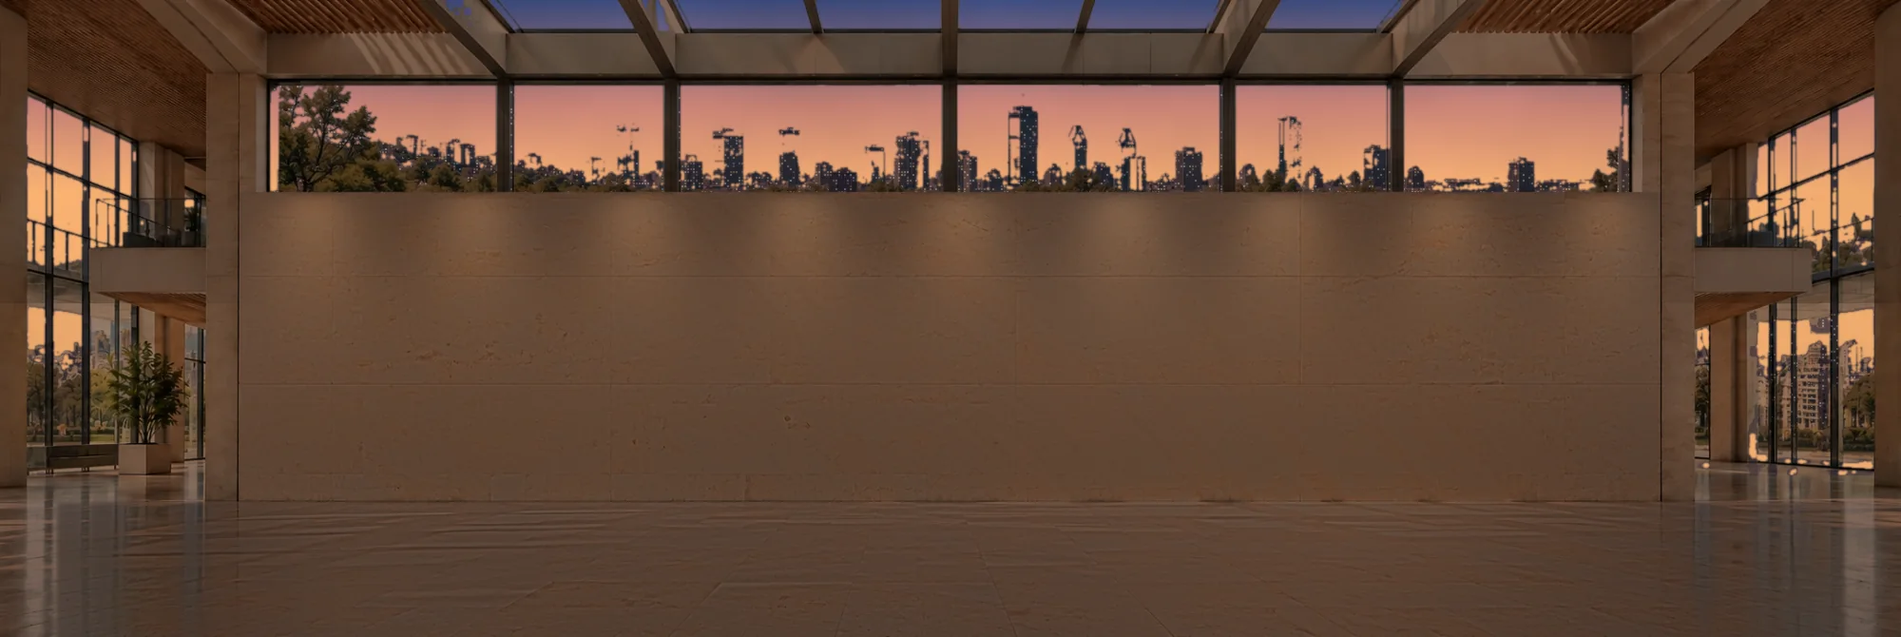
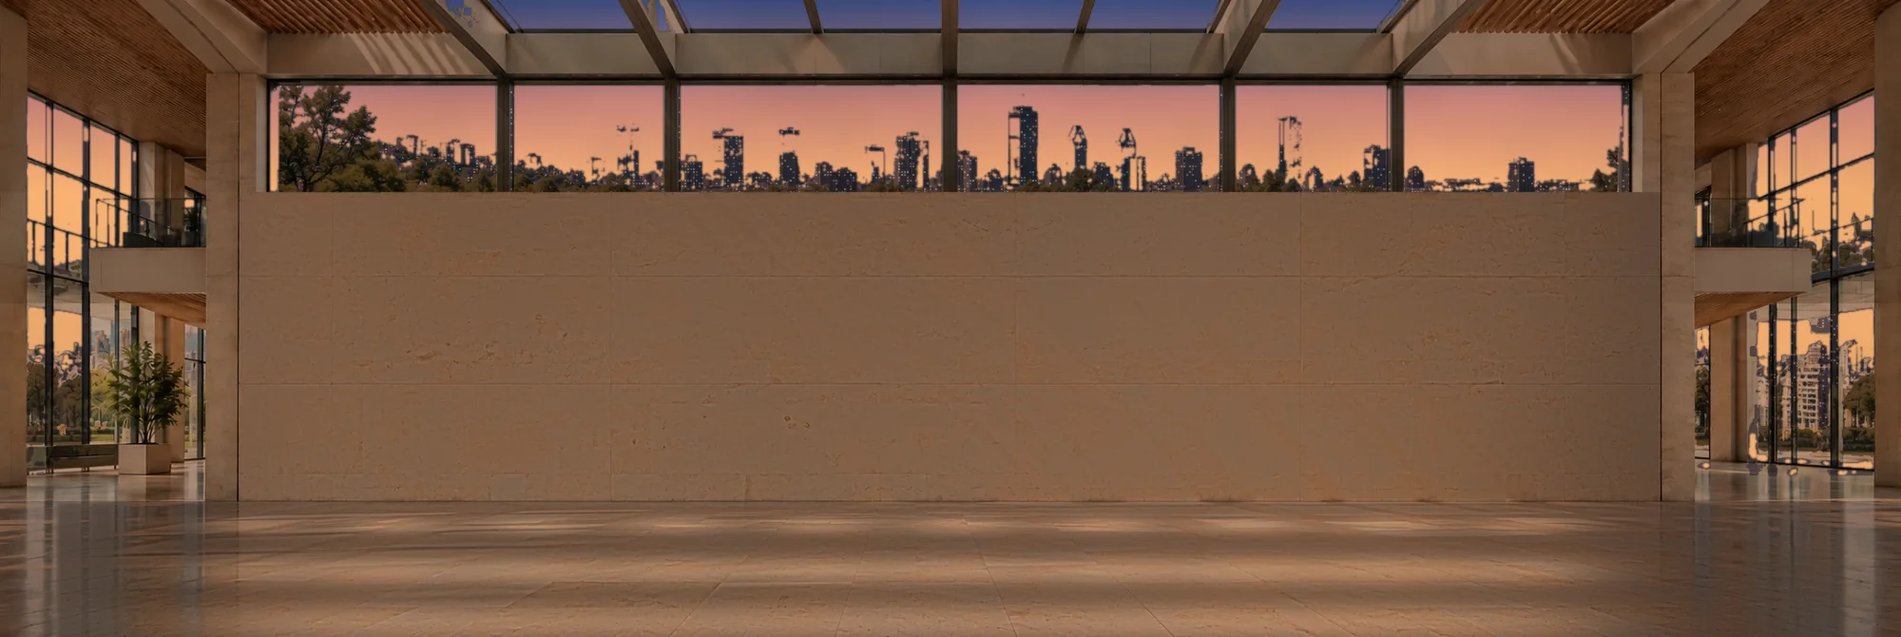
Hall : vue rapprochée, nuit éclairée par le plafond, ouverture des portes d'origine
- Vue rapprochée (×1,24, haut de la verrière recadré) : portes et panneaux plus
  grands ; la largeur des stations suit celle des portes.
- Nuit plus lumineuse : spots du plafond, lumière douce sur le mur, flaques de
  lumière et reflets au sol ; portes et panneaux moins assombris.
- Ouverture des portes rétablie : intérieur sombre avec « Entrer » et transition
  claire et translucide de la couleur de la porte.

diff --git a/assets/hall-realiste.css b/assets/hall-realiste.css
@@ -20,16 +20,10 @@
 }
 .hall[data-hall-volume]:is(.en-volume,.en-mobile) .station-hall .porte .ouverture {
   inset: 1.1% 2.2% 0;
-  background: linear-gradient(105deg,#151b1d,color-mix(in srgb,var(--c1) 17%,#162124),#10191c);
-  box-shadow: inset 3px 2px 5px #000a;
-  perspective: 900px;
-  perspective-origin: 0 50%;
-  transition: background .5s ease, box-shadow .5s ease;
-}
-/* La teinte de la porte apparaît derrière le vantail pendant son ouverture. */
-.hall[data-hall-volume]:is(.en-volume,.en-mobile) .station-hall .porte.ouverte .ouverture {
-  background: radial-gradient(ellipse at 54% 49%,color-mix(in srgb,var(--c1) 68%,#e6f0f2) 0%,color-mix(in srgb,var(--c1) 83%,#26313a) 65%,#182229 100%);
-  box-shadow: inset 0 0 16px color-mix(in srgb,var(--c1) 42%,transparent);
+  background: linear-gradient(90deg,#101511,#3a3d32 15%,#262b25 92%,#101511);
+  box-shadow: inset 2px 1px 3px #0008;
+  perspective: 1700px;
+  perspective-origin: 50% 50%;
 }
 .hall[data-hall-volume]:is(.en-volume,.en-mobile) .station-hall .porte .battant {
   border: 0;
@@ -37,7 +31,7 @@
   background: url("photos/porte-laboratoire-cinema.webp") center / 100% 100% no-repeat;
   box-shadow: inset 1px 0 0 rgba(255,255,255,.55), inset -1px 0 0 rgba(60,54,44,.35);
   transform-origin: 0 50%;
-  transition: transform .6s cubic-bezier(.3,.7,.2,1), filter .6s;
+  transition: transform .55s var(--ease);
 }
 .hall[data-hall-volume]:is(.en-volume,.en-mobile) .station-hall .porte .battant::before,
 .hall[data-hall-volume]:is(.en-volume,.en-mobile) .station-hall .porte .battant::after,
@@ -71,12 +65,6 @@
 .hall[data-hall-volume]:is(.en-volume,.en-mobile) .station-hall .porte .apercu {
   color: #f2eee2;
   text-shadow: 0 1px 2px #000;
-}
-@media(hover:hover) and (pointer:fine) {
-  .hall[data-hall-volume]:is(.en-volume,.en-mobile) .station-hall .porte:not(.ouverte):hover .battant {
-    transform: rotateY(-14deg);
-    box-shadow: inset 1px 0 0 rgba(255,255,255,.55), 6px 0 10px -4px rgba(0,0,0,.45);
-  }
 }
 
 /* Panneaux épinglés au mur : plaque blanche mate sur quatre entretoises inox. */
@@ -211,6 +199,9 @@
 @media(min-width:1000px) {
   .hall.en-volume {
     --eb-hall-hauteur: clamp(460px,58svh,540px);
+    /* Vue rapprochée : la photo est agrandie et le haut de la verrière recadré. */
+    --hall-zoom: 1.24;
+    --hall-recadrage: 48;
   }
   .hall.en-volume .hall-espace {
     height: var(--eb-hall-hauteur);
@@ -220,12 +211,13 @@
   .hall.en-volume .hall-espace::before,
   .hall.en-volume .hall-espace::after { content: none; }
   .hall.en-volume .hall-univers {
-    --px: max(calc(100cqw / 2000), calc(100cqh / 670));
+    --px: calc(max(calc(100cqw / 2000), calc(100cqh / 670)) * var(--hall-zoom));
     --iw: calc(var(--px) * 2000);
     --ih: calc(var(--px) * 670);
     --ix: calc((100cqw - var(--iw)) / 2);
-    --mur-haut: calc(var(--px) * 202);
-    --mur-bas: calc(var(--px) * 526);
+    --iy: calc(var(--px) * var(--hall-recadrage) * -1);
+    --mur-haut: calc(var(--iy) + var(--px) * 202);
+    --mur-bas: calc(var(--iy) + var(--px) * 526);
     --mur-g: calc(var(--ix) + var(--px) * 253);
     --mur-d: calc(var(--ix) + var(--px) * 1746);
     --hauteur-mur: calc(var(--mur-bas) - var(--mur-haut));
@@ -235,7 +227,7 @@
     inset: 0;
     transform: none;
     isolation: isolate;
-    background: var(--hall-jour) var(--ix) 0 / var(--iw) var(--ih) no-repeat;
+    background: var(--hall-jour) var(--ix) var(--iy) / var(--iw) var(--ih) no-repeat;
     background-color: #d6ccbb;
   }
   .hall.en-volume .architecture-hall::before,
@@ -243,12 +235,12 @@
   .hall.en-volume[data-moment] .architecture-hall::before { content: none; display: none; }
   .hall.en-volume :is(.paroi-hall,.plafond-hall,.verriere-hall,.dallage-hall) { display: none; }
   .hall.en-volume .hall-calque {
-    background-position: var(--ix) 0;
+    background-position: var(--ix) var(--iy);
     background-size: var(--iw) var(--ih);
   }
   .hall.en-volume :is(.hall-brume,.hall-precipitation,.hall-eclair) {
-    -webkit-mask-position: var(--ix) 0;
-    mask-position: var(--ix) 0;
+    -webkit-mask-position: var(--ix) var(--iy);
+    mask-position: var(--ix) var(--iy);
     -webkit-mask-size: var(--iw) var(--ih);
     mask-size: var(--iw) var(--ih);
   }
@@ -290,7 +282,7 @@
   .hall.en-volume .station-hall {
     top: var(--mur-haut);
     bottom: auto;
-    width: 446px;
+    width: var(--hall-station-l,446px);
     height: var(--hauteur-mur);
     transform: translateX(var(--panorama-x,40px));
     filter: brightness(var(--hall-eclairage)) sepia(var(--hall-chaleur));
@@ -337,18 +329,22 @@
     opacity: .9;
   }
   .hall.en-volume .station-hall .porte::after { content: none; }
-  .hall.en-volume .station-hall .porte:not(.ouverte):focus-visible .battant { transform: rotateY(-26deg); }
-  .hall.en-volume .station-hall .porte.ouverte .battant { transform: rotateY(-84deg); }
+  .hall.en-volume .station-hall .porte:not(.ouverte):focus-visible .battant { transform: rotateY(-34deg); }
+  .hall.en-volume .station-hall .porte.ouverte .battant { transform: rotateY(-82deg); }
   .hall.en-volume .station-hall .panneau-hall {
     top: 8%;
     bottom: auto;
     left: calc(var(--hall-porte-l) + 34px);
-    width: calc(446px - var(--hall-porte-l) - 44px);
+    width: calc(var(--hall-station-l,446px) - var(--hall-porte-l) - 44px);
     height: auto;
     min-height: 80%;
     max-height: none;
     transform: none;
   }
+  .hall.en-volume .station-hall .panneau-hall { padding: 18px 20px 15px; }
+  .hall.en-volume .station-hall .panneau-hall h3 { font-size: 14.5px; margin-bottom: 10px; padding-bottom: 10px; }
+  .hall.en-volume .station-hall .panneau-hall h3 bdi { width: 34px; height: 34px; font-size: 21px; }
+  .hall.en-volume .station-hall .sous-portes-murales > :is(button,a) { min-height: 36px; font-size: 12px; }
   .hall.en-volume .station-hall .panneau-hall > p {
     margin: 0 0 6px;
     font-size: 10.5px;
@@ -372,11 +368,11 @@
     opacity: var(--hall-lumiere-force,0);
   }
   .hall.en-volume .station-hall .porte .baie::before {
-    background-position: calc(var(--ix) - var(--panorama-x,40px) - 10px) calc(0px - var(--mur-haut));
+    background-position: calc(var(--ix) - var(--panorama-x,40px) - 10px) calc(var(--iy) - var(--mur-haut));
   }
   .hall.en-volume .station-hall .panneau-hall::after {
     border-radius: inherit;
-    background-position: calc(var(--ix) - var(--panorama-x,40px) - var(--hall-porte-l) - 34px) calc(0px - var(--mur-haut) - var(--hauteur-mur) * .08);
+    background-position: calc(var(--ix) - var(--panorama-x,40px) - var(--hall-porte-l) - 34px) calc(var(--iy) - var(--mur-haut) - var(--hauteur-mur) * .08);
   }
 }
 

diff --git a/ru/index.html b/ru/index.html
@@ -17,7 +17,7 @@
 <link rel="alternate" hreflang="x-default" href="https://erjb-web.github.io/">
 <link rel="icon" href="../assets/favicon.svg?v=3fa5b764af" type="image/svg+xml">
 <link rel="stylesheet" href="../assets/site.css?v=menuiserie-realiste-20261016b">
-<link rel="stylesheet" href="../assets/hall-realiste.css?v=cda16e29a1">
+<link rel="stylesheet" href="../assets/hall-realiste.css?v=4fe868f4c7">
 <link rel="stylesheet" href="../assets/vulgarisation-studio.css?v=20261015studio5">
 <link rel="stylesheet" href="../assets/vulgarisation-editorial.css?v=20261015editorial4">
 <meta property="og:type" content="profile">
@@ -28,9 +28,9 @@
 <meta property="og:locale" content="ru_RU">
 <meta name="twitter:card" content="summary_large_image">
 <script type="application/ld+json">{"@context":"https://schema.org","@type":"Person","name":"Éric Bernier","url":"https://erjb-web.github.io/","image":"https://erjb-web.github.io/assets/portrait.jpg","jobTitle":"Аспирант по общественному здравоохранению · ESPUM · CRCHUM","email":"mailto:eric.bernier.1@umontreal.ca","affiliation":[{"@type":"CollegeOrUniversity","name":"École de santé publique de l’Université de Montréal (ESPUM)"},{"@type":"ResearchOrganization","name":"Centre de recherche du CHUM (CRCHUM)"}],"alumniOf":[{"@type":"CollegeOrUniversity","name":"Université Paris Panthéon-Assas"},{"@type":"CollegeOrUniversity","name":"Université de Bretagne Occidentale"}],"knowsAbout":["Управление и оценка политики здравоохранения","Межсекторальный подход в первичной медицинской помощи","Старение, утрата самостоятельности и политика поддержки жизни дома"],"sameAs":["https://orcid.org/0009-0001-4236-4932"]}</script>
-<script src="../assets/hall-marche.js?v=2dfc4f662b" defer></script>
-<script src="../assets/hall-ciel.js?v=988f48a5b2" defer></script>
-<script src="../assets/site.js?v=28f7f45e71" defer></script>
+<script src="../assets/hall-marche.js?v=803fe3059b" defer></script>
+<script src="../assets/hall-ciel.js?v=1c527ebcdc" defer></script>
+<script src="../assets/site.js?v=fbb0a31b2f" defer></script>
 <script src="../assets/vulgarisation-studio.js?v=quizfix20261016" defer></script>
 <script src="../assets/vulgarisation-editorial.js?v=20261015editorial4" defer></script>
 <script src="../assets/audience.js?v=32f18e181a" data-audience-website-id="782c7df7-c2cf-4578-bddc-fa02662324af" data-audience-domaines="erjb-web.github.io" defer></script>

diff --git a/ar/index.html b/ar/index.html
@@ -17,7 +17,7 @@
 <link rel="alternate" hreflang="x-default" href="https://erjb-web.github.io/">
 <link rel="icon" href="../assets/favicon.svg?v=3fa5b764af" type="image/svg+xml">
 <link rel="stylesheet" href="../assets/site.css?v=menuiserie-realiste-20261016b">
-<link rel="stylesheet" href="../assets/hall-realiste.css?v=cda16e29a1">
+<link rel="stylesheet" href="../assets/hall-realiste.css?v=4fe868f4c7">
 <link rel="stylesheet" href="../assets/vulgarisation-studio.css?v=20261015studio5">
 <link rel="stylesheet" href="../assets/vulgarisation-editorial.css?v=20261015editorial4">
 <meta property="og:type" content="profile">
@@ -28,9 +28,9 @@
 <meta property="og:locale" content="ar_AR">
 <meta name="twitter:card" content="summary_large_image">
 <script type="application/ld+json">{"@context":"https://schema.org","@type":"Person","name":"Éric Bernier","url":"https://erjb-web.github.io/","image":"https://erjb-web.github.io/assets/portrait.jpg","jobTitle":"طالب دكتوراه في الصحة العامة · ESPUM · CRCHUM","email":"mailto:eric.bernier.1@umontreal.ca","affiliation":[{"@type":"CollegeOrUniversity","name":"École de santé publique de l’Université de Montréal (ESPUM)"},{"@type":"ResearchOrganization","name":"Centre de recherche du CHUM (CRCHUM)"}],"alumniOf":[{"@type":"CollegeOrUniversity","name":"Université Paris Panthéon-Assas"},{"@type":"CollegeOrUniversity","name":"Université de Bretagne Occidentale"}],"knowsAbout":["حوكمة السياسات الصحية وتقييمها","المقاربة المشتركة بين القطاعات في خط الرعاية الأول","الشيخوخة وفقدان الاستقلالية وسياسات دعم البقاء في المنزل"],"sameAs":["https://orcid.org/0009-0001-4236-4932"]}</script>
-<script src="../assets/hall-marche.js?v=2dfc4f662b" defer></script>
-<script src="../assets/hall-ciel.js?v=988f48a5b2" defer></script>
-<script src="../assets/site.js?v=28f7f45e71" defer></script>
+<script src="../assets/hall-marche.js?v=803fe3059b" defer></script>
+<script src="../assets/hall-ciel.js?v=1c527ebcdc" defer></script>
+<script src="../assets/site.js?v=fbb0a31b2f" defer></script>
 <script src="../assets/vulgarisation-studio.js?v=quizfix20261016" defer></script>
 <script src="../assets/vulgarisation-editorial.js?v=20261015editorial4" defer></script>
 <script src="../assets/audience.js?v=32f18e181a" data-audience-website-id="782c7df7-c2cf-4578-bddc-fa02662324af" data-audience-domaines="erjb-web.github.io" defer></script>

diff --git a/es/index.html b/es/index.html
@@ -17,7 +17,7 @@
 <link rel="alternate" hreflang="x-default" href="https://erjb-web.github.io/">
 <link rel="icon" href="../assets/favicon.svg?v=3fa5b764af" type="image/svg+xml">
 <link rel="stylesheet" href="../assets/site.css?v=menuiserie-realiste-20261016b">
-<link rel="stylesheet" href="../assets/hall-realiste.css?v=cda16e29a1">
+<link rel="stylesheet" href="../assets/hall-realiste.css?v=4fe868f4c7">
 <link rel="stylesheet" href="../assets/vulgarisation-studio.css?v=20261015studio5">
 <link rel="stylesheet" href="../assets/vulgarisation-editorial.css?v=20261015editorial4">
 <meta property="og:type" content="profile">
@@ -28,9 +28,9 @@
 <meta property="og:locale" content="es_ES">
 <meta name="twitter:card" content="summary_large_image">
 <script type="application/ld+json">{"@context":"https://schema.org","@type":"Person","name":"Éric Bernier","url":"https://erjb-web.github.io/","image":"https://erjb-web.github.io/assets/portrait.jpg","jobTitle":"Doctorando en salud pública · ESPUM · CRCHUM","email":"mailto:eric.bernier.1@umontreal.ca","affiliation":[{"@type":"CollegeOrUniversity","name":"École de santé publique de l’Université de Montréal (ESPUM)"},{"@type":"ResearchOrganization","name":"Centre de recherche du CHUM (CRCHUM)"}],"alumniOf":[{"@type":"CollegeOrUniversity","name":"Université Paris Panthéon-Assas"},{"@type":"CollegeOrUniversity","name":"Université de Bretagne Occidentale"}],"knowsAbout":["Gobernanza y evaluación de las políticas de salud","Enfoque intersectorial en atención primaria","Envejecimiento, pérdida de autonomía y políticas de permanencia en el domicilio"],"sameAs":["https://orcid.org/0009-0001-4236-4932"]}</script>
-<script src="../assets/hall-marche.js?v=2dfc4f662b" defer></script>
-<script src="../assets/hall-ciel.js?v=988f48a5b2" defer></script>
-<script src="../assets/site.js?v=28f7f45e71" defer></script>
+<script src="../assets/hall-marche.js?v=803fe3059b" defer></script>
+<script src="../assets/hall-ciel.js?v=1c527ebcdc" defer></script>
+<script src="../assets/site.js?v=fbb0a31b2f" defer></script>
 <script src="../assets/vulgarisation-studio.js?v=quizfix20261016" defer></script>
 <script src="../assets/vulgarisation-editorial.js?v=20261015editorial4" defer></script>
 <script src="../assets/audience.js?v=32f18e181a" data-audience-website-id="782c7df7-c2cf-4578-bddc-fa02662324af" data-audience-domaines="erjb-web.github.io" defer></script>

diff --git a/en/index.html b/en/index.html
@@ -17,7 +17,7 @@
 <link rel="alternate" hreflang="x-default" href="https://erjb-web.github.io/">
 <link rel="icon" href="../assets/favicon.svg?v=3fa5b764af" type="image/svg+xml">
 <link rel="stylesheet" href="../assets/site.css?v=menuiserie-realiste-20261016b">
-<link rel="stylesheet" href="../assets/hall-realiste.css?v=cda16e29a1">
+<link rel="stylesheet" href="../assets/hall-realiste.css?v=4fe868f4c7">
 <link rel="stylesheet" href="../assets/vulgarisation-studio.css?v=20261015studio5">
 <link rel="stylesheet" href="../assets/vulgarisation-editorial.css?v=20261015editorial4">
 <meta property="og:type" content="profile">
@@ -28,9 +28,9 @@
 <meta property="og:locale" content="en_CA">
 <meta name="twitter:card" content="summary_large_image">
 <script type="application/ld+json">{"@context":"https://schema.org","@type":"Person","name":"Éric Bernier","url":"https://erjb-web.github.io/","image":"https://erjb-web.github.io/assets/portrait.jpg","jobTitle":"PhD student in public health · ESPUM · CRCHUM","email":"mailto:eric.bernier.1@umontreal.ca","affiliation":[{"@type":"CollegeOrUniversity","name":"École de santé publique de l’Université de Montréal (ESPUM)"},{"@type":"ResearchOrganization","name":"Centre de recherche du CHUM (CRCHUM)"}],"alumniOf":[{"@type":"CollegeOrUniversity","name":"Université Paris Panthéon-Assas"},{"@type":"CollegeOrUniversity","name":"Université de Bretagne Occidentale"}],"knowsAbout":["Governance and evaluation of health policy","Intersectoral approaches in primary care","Ageing, loss of autonomy and ageing-in-place policies"],"sameAs":["https://orcid.org/0009-0001-4236-4932"]}</script>
-<script src="../assets/hall-marche.js?v=2dfc4f662b" defer></script>
-<script src="../assets/hall-ciel.js?v=988f48a5b2" defer></script>
-<script src="../assets/site.js?v=28f7f45e71" defer></script>
+<script src="../assets/hall-marche.js?v=803fe3059b" defer></script>
+<script src="../assets/hall-ciel.js?v=1c527ebcdc" defer></script>
+<script src="../assets/site.js?v=fbb0a31b2f" defer></script>
 <script src="../assets/vulgarisation-studio.js?v=quizfix20261016" defer></script>
 <script src="../assets/vulgarisation-editorial.js?v=20261015editorial4" defer></script>
 <script src="../assets/audience.js?v=32f18e181a" data-audience-website-id="782c7df7-c2cf-4578-bddc-fa02662324af" data-audience-domaines="erjb-web.github.io" defer></script>

diff --git a/index.html b/index.html
@@ -17,7 +17,7 @@
 <link rel="alternate" hreflang="x-default" href="https://erjb-web.github.io/">
 <link rel="icon" href="assets/favicon.svg?v=3fa5b764af" type="image/svg+xml">
 <link rel="stylesheet" href="assets/site.css?v=alignement-portes-20261016e">
-<link rel="stylesheet" href="assets/hall-realiste.css?v=cda16e29a1">
+<link rel="stylesheet" href="assets/hall-realiste.css?v=4fe868f4c7">
 <link rel="stylesheet" href="assets/vulgarisation-studio.css?v=20261015studio5">
 <link rel="stylesheet" href="assets/vulgarisation-editorial.css?v=20261015editorial4">
 <meta property="og:type" content="profile">
@@ -28,9 +28,9 @@
 <meta property="og:locale" content="fr_FR">
 <meta name="twitter:card" content="summary_large_image">
 <script type="application/ld+json">{"@context":"https://schema.org","@type":"Person","name":"Éric Bernier","url":"https://erjb-web.github.io/","image":"https://erjb-web.github.io/assets/portrait.jpg","jobTitle":"Doctorant en santé publique · ESPUM · CRCHUM","email":"mailto:eric.bernier.1@umontreal.ca","affiliation":[{"@type":"CollegeOrUniversity","name":"École de santé publique de l’Université de Montréal (ESPUM)"},{"@type":"ResearchOrganization","name":"Centre de recherche du CHUM (CRCHUM)"}],"alumniOf":[{"@type":"CollegeOrUniversity","name":"Université Paris Panthéon-Assas"},{"@type":"CollegeOrUniversity","name":"Université de Bretagne Occidentale"}],"knowsAbout":["Gouvernance et évaluation des politiques de santé","Approche intersectorielle en première ligne","Vieillissement, perte d’autonomie et politiques du maintien à domicile"],"sameAs":["https://orcid.org/0009-0001-4236-4932"]}</script>
-<script src="assets/hall-marche.js?v=2dfc4f662b" defer></script>
-<script src="assets/hall-ciel.js?v=988f48a5b2" defer></script>
-<script src="assets/site.js?v=28f7f45e71" defer></script>
+<script src="assets/hall-marche.js?v=803fe3059b" defer></script>
+<script src="assets/hall-ciel.js?v=1c527ebcdc" defer></script>
+<script src="assets/site.js?v=fbb0a31b2f" defer></script>
 <script src="assets/vulgarisation-studio.js?v=quizfix20261016" defer></script>
 <script src="assets/vulgarisation-editorial.js?v=20261015editorial4" defer></script>
 <script src="assets/audience.js?v=32f18e181a" data-audience-website-id="782c7df7-c2cf-4578-bddc-fa02662324af" data-audience-domaines="erjb-web.github.io" defer></script>

diff --git a/zh/index.html b/zh/index.html
@@ -17,7 +17,7 @@
 <link rel="alternate" hreflang="x-default" href="https://erjb-web.github.io/">
 <link rel="icon" href="../assets/favicon.svg?v=3fa5b764af" type="image/svg+xml">
 <link rel="stylesheet" href="../assets/site.css?v=menuiserie-realiste-20261016b">
-<link rel="stylesheet" href="../assets/hall-realiste.css?v=cda16e29a1">
+<link rel="stylesheet" href="../assets/hall-realiste.css?v=4fe868f4c7">
 <link rel="stylesheet" href="../assets/vulgarisation-studio.css?v=20261015studio5">
 <link rel="stylesheet" href="../assets/vulgarisation-editorial.css?v=20261015editorial4">
 <meta property="og:type" content="profile">
@@ -28,9 +28,9 @@
 <meta property="og:locale" content="zh_CN">
 <meta name="twitter:card" content="summary_large_image">
 <script type="application/ld+json">{"@context":"https://schema.org","@type":"Person","name":"Éric Bernier","url":"https://erjb-web.github.io/","image":"https://erjb-web.github.io/assets/portrait.jpg","jobTitle":"公共卫生博士研究生 · ESPUM · CRCHUM","email":"mailto:eric.bernier.1@umontreal.ca","affiliation":[{"@type":"CollegeOrUniversity","name":"École de santé publique de l’Université de Montréal (ESPUM)"},{"@type":"ResearchOrganization","name":"Centre de recherche du CHUM (CRCHUM)"}],"alumniOf":[{"@type":"CollegeOrUniversity","name":"Université Paris Panthéon-Assas"},{"@type":"CollegeOrUniversity","name":"Université de Bretagne Occidentale"}],"knowsAbout":["卫生政策的治理与评估","第一线服务中的跨部门方法","老龄化、失能与居家养老政策"],"sameAs":["https://orcid.org/0009-0001-4236-4932"]}</script>
-<script src="../assets/hall-marche.js?v=2dfc4f662b" defer></script>
-<script src="../assets/hall-ciel.js?v=988f48a5b2" defer></script>
-<script src="../assets/site.js?v=28f7f45e71" defer></script>
+<script src="../assets/hall-marche.js?v=803fe3059b" defer></script>
+<script src="../assets/hall-ciel.js?v=1c527ebcdc" defer></script>
+<script src="../assets/site.js?v=fbb0a31b2f" defer></script>
 <script src="../assets/vulgarisation-studio.js?v=quizfix20261016" defer></script>
 <script src="../assets/vulgarisation-editorial.js?v=20261015editorial4" defer></script>
 <script src="../assets/audience.js?v=32f18e181a" data-audience-website-id="782c7df7-c2cf-4578-bddc-fa02662324af" data-audience-domaines="erjb-web.github.io" defer></script>

diff --git a/innu/index.html b/innu/index.html
@@ -17,7 +17,7 @@
 <link rel="alternate" hreflang="x-default" href="https://erjb-web.github.io/">
 <link rel="icon" href="../assets/favicon.svg?v=3fa5b764af" type="image/svg+xml">
 <link rel="stylesheet" href="../assets/site.css?v=implantation20261015a">
-<link rel="stylesheet" href="../assets/hall-realiste.css?v=cda16e29a1">
+<link rel="stylesheet" href="../assets/hall-realiste.css?v=4fe868f4c7">
 <meta property="og:type" content="profile">
 <meta property="og:title" content="Éric Bernier · Innu-aimun">
 <meta property="og:description" content="Innu-aimun · Toutes les rubriques du site d’Éric Bernier ; présentation préliminaire et contenu français accessible en intégralité.">
@@ -26,9 +26,9 @@
 <meta property="og:locale" content="fr_CA">
 <meta name="twitter:card" content="summary_large_image">
 <script type="application/ld+json">{"@context":"https://schema.org","@type":"Person","name":"Éric Bernier","url":"https://erjb-web.github.io/","image":"https://erjb-web.github.io/assets/portrait.jpg","jobTitle":"Doctorant en santé publique · ESPUM · CRCHUM","email":"mailto:eric.bernier.1@umontreal.ca","affiliation":[{"@type":"CollegeOrUniversity","name":"École de santé publique de l’Université de Montréal (ESPUM)"},{"@type":"ResearchOrganization","name":"Centre de recherche du CHUM (CRCHUM)"}],"alumniOf":[{"@type":"CollegeOrUniversity","name":"Université Paris Panthéon-Assas"},{"@type":"CollegeOrUniversity","name":"Université de Bretagne Occidentale"}],"knowsAbout":["Gouvernance et évaluation des politiques de santé","Approche intersectorielle en première ligne","Vieillissement, perte d’autonomie et politiques du maintien à domicile"],"sameAs":["https://orcid.org/0009-0001-4236-4932"]}</script>
-<script src="../assets/hall-marche.js?v=2dfc4f662b" defer></script>
-<script src="../assets/hall-ciel.js?v=988f48a5b2" defer></script>
-<script src="../assets/site.js?v=28f7f45e71" defer></script>
+<script src="../assets/hall-marche.js?v=803fe3059b" defer></script>
+<script src="../assets/hall-ciel.js?v=1c527ebcdc" defer></script>
+<script src="../assets/site.js?v=fbb0a31b2f" defer></script>
 <script src="../assets/audience.js?v=32f18e181a" data-audience-website-id="782c7df7-c2cf-4578-bddc-fa02662324af" data-audience-domaines="erjb-web.github.io" defer></script>
 </head>
 <body>

diff --git a/iu/index.html b/iu/index.html
@@ -17,7 +17,7 @@
 <link rel="alternate" hreflang="x-default" href="https://erjb-web.github.io/">
 <link rel="icon" href="../assets/favicon.svg?v=3fa5b764af" type="image/svg+xml">
 <link rel="stylesheet" href="../assets/site.css?v=implantation20261015a">
-<link rel="stylesheet" href="../assets/hall-realiste.css?v=cda16e29a1">
+<link rel="stylesheet" href="../assets/hall-realiste.css?v=4fe868f4c7">
 <meta property="og:type" content="profile">
 <meta property="og:title" content="Éric Bernier · Inuktitut">
 <meta property="og:description" content="Inuktitut · Toutes les rubriques du site d’Éric Bernier ; présentation préliminaire et contenu français accessible en intégralité.">
@@ -26,9 +26,9 @@
 <meta property="og:locale" content="fr_CA">
 <meta name="twitter:card" content="summary_large_image">
 <script type="application/ld+json">{"@context":"https://schema.org","@type":"Person","name":"Éric Bernier","url":"https://erjb-web.github.io/","image":"https://erjb-web.github.io/assets/portrait.jpg","jobTitle":"Doctorant en santé publique · ESPUM · CRCHUM","email":"mailto:eric.bernier.1@umontreal.ca","affiliation":[{"@type":"CollegeOrUniversity","name":"École de santé publique de l’Université de Montréal (ESPUM)"},{"@type":"ResearchOrganization","name":"Centre de recherche du CHUM (CRCHUM)"}],"alumniOf":[{"@type":"CollegeOrUniversity","name":"Université Paris Panthéon-Assas"},{"@type":"CollegeOrUniversity","name":"Université de Bretagne Occidentale"}],"knowsAbout":["Gouvernance et évaluation des politiques de santé","Approche intersectorielle en première ligne","Vieillissement, perte d’autonomie et politiques du maintien à domicile"],"sameAs":["https://orcid.org/0009-0001-4236-4932"]}</script>
-<script src="../assets/hall-marche.js?v=2dfc4f662b" defer></script>
-<script src="../assets/hall-ciel.js?v=988f48a5b2" defer></script>
-<script src="../assets/site.js?v=28f7f45e71" defer></script>
+<script src="../assets/hall-marche.js?v=803fe3059b" defer></script>
+<script src="../assets/hall-ciel.js?v=1c527ebcdc" defer></script>
+<script src="../assets/site.js?v=fbb0a31b2f" defer></script>
 <script src="../assets/audience.js?v=32f18e181a" data-audience-website-id="782c7df7-c2cf-4578-bddc-fa02662324af" data-audience-domaines="erjb-web.github.io" defer></script>
 </head>
 <body>

diff --git a/assets/site.js b/assets/site.js
@@ -255,7 +255,7 @@
     passage.className = "passage";
     const teinte = getComputedStyle(porte);
     const g1 = teinte.getPropertyValue("--c1").trim();
-    passage.style.background = `radial-gradient(125% 85% at 50% 50%, color-mix(in srgb, ${g1 || '#456879'} 65%, #fff) 0%, color-mix(in srgb, ${g1 || '#456879'} 78%, #182a32) 100%)`;
+    passage.style.background = `radial-gradient(120% 70% at 50% 75%, color-mix(in srgb, ${g1} 12%, rgba(255,255,255,.78)) 0%, color-mix(in srgb, ${g1} 32%, rgba(255,255,255,.55)) 100%)`;
     Object.assign(passage.style, { left: r.left + "px", top: r.top + "px", width: r.width + "px", height: r.height + "px" });
     document.body.append(passage);
     if (!reduit && passage.animate) {
@@ -477,7 +477,7 @@
     const passage = document.createElement("div");
     passage.className = "passage";
     const c1 = bouton.style.getPropertyValue("--c1").trim();
-    passage.style.background = `radial-gradient(125% 85% at 50% 50%, color-mix(in srgb, ${c1 || '#456879'} 65%, #fff) 0%, color-mix(in srgb, ${c1 || '#456879'} 78%, #182a32) 100%)`;
+    passage.style.background = `radial-gradient(120% 70% at 50% 75%, color-mix(in srgb, ${c1} 12%, rgba(255,255,255,.78)) 0%, color-mix(in srgb, ${c1} 32%, rgba(255,255,255,.55)) 100%)`;
     Object.assign(passage.style, { left: r.left + "px", top: r.top + "px", width: r.width + "px", height: r.height + "px" });
     document.body.append(passage);
     if (!reduit && passage.animate) {

diff --git a/assets/hall-marche.js b/assets/hall-marche.js
@@ -2,7 +2,8 @@
 // Panorama borné : regarder et faire glisser ne déclenchent jamais une entrée.
 window.creerMarcheHall=({hall,scene,monde,stations,surSelection})=>{
  const calme=matchMedia('(prefers-reduced-motion:reduce)');
- const pas=470,largeur=446,ecart=14;
+ const ecart=14;
+ let pas=470,largeur=446;
  const borner=(v,a,b)=>Math.max(a,Math.min(b,v));
  let actif=false,selection=0,position=0,cible=0,maximum=0,largeurVue=0,hauteurVue=0;
  let murG=0,murD=0,margeG=ecart,margeD=ecart;
@@ -14,8 +15,12 @@ window.creerMarcheHall=({hall,scene,monde,stations,surSelection})=>{
   if(!w)return;
   if(w!==largeurVue||h!==hauteurVue){
    largeurVue=w;hauteurVue=h;
-   // Le mur de la photographie (2000 × 670) va du pilier x=253 au pilier x=1746.
-   const px=Math.max(w/2000,h/670),ix=(w-2000*px)/2;
+   // Le mur de la photographie (2000 × 670) va du pilier x=253 au pilier x=1746, de y=202 à y=526.
+   const zoom=parseFloat(getComputedStyle(hall).getPropertyValue('--hall-zoom'))||1;
+   const px=Math.max(w/2000,h/670)*zoom,ix=(w-2000*px)/2;
+   const porte=324*px*845/1862;
+   largeur=Math.round(porte+44+Math.min(340,Math.max(290,w*.26)));pas=largeur+24;
+   hall.style.setProperty('--hall-station-l',largeur+'px');
    murG=Math.max(0,ix+253*px);murD=Math.min(w,ix+1746*px);
    margeG=murG+ecart;margeD=w-murD+ecart;
    maximum=Math.max(0,margeG+pas*(stations.length-1)+largeur+margeD-w);

diff --git a/assets/hall-ciel.js b/assets/hall-ciel.js
@@ -119,10 +119,10 @@
     const dominante = nuit > 0.55 ? "nuit" : crepuscule > 0.5 ? "crepuscule-" + s : couvert > 0.5 ? "couvert-" + s : "jour-" + s;
     hall.style.setProperty("--hall-fond", photo(dominante));
     const soleil = (1 - nuit) * (1 - couvert) * (1 - crepuscule * 0.6);
-    const eclairage = 1 - nuit * 0.48 - crepuscule * 0.3 * (1 - nuit) - couvert * 0.06 * (1 - nuit);
+    const eclairage = 1 - nuit * 0.3 - crepuscule * 0.24 * (1 - nuit) - couvert * 0.06 * (1 - nuit);
     hall.style.setProperty("--hall-soleil", soleil.toFixed(3));
     hall.style.setProperty("--hall-eclairage", eclairage.toFixed(3));
-    hall.style.setProperty("--hall-chaleur", (nuit * 0.18 + crepuscule * 0.22).toFixed(3));
+    hall.style.setProperty("--hall-chaleur", (nuit * 0.12 + crepuscule * 0.2).toFixed(3));
     // Les rayons du soleil, ou les halos des lampes, tombent aussi sur les portes et les panneaux.
     hall.style.setProperty("--hall-lumiere-calque", photo(nuit > 0.5 ? "lumiere-nuit" : "lumiere-jour"));
     hall.style.setProperty("--hall-lumiere-force", (nuit > 0.5 ? nuit : soleil).toFixed(3));
